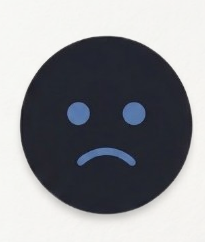
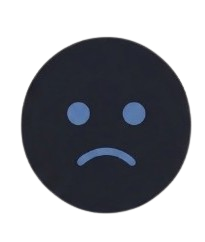
Fix character companion clipping for transparent PNGs

diff --git a/my-app/src/components/characterCompanion/characterCompanion.css b/my-app/src/components/characterCompanion/characterCompanion.css
@@ -46,7 +46,6 @@
 	width: 100%;
 	height: 100%;
 	object-fit: contain;
-	border-radius: 50%;
 	animation: characterIdle 3s ease-in-out infinite;
 	filter: drop-shadow(0 4px 12px rgba(0,0,0,0.15));
 	transition: transform 0.3s ease;
@@ -195,7 +194,6 @@
 /* Aura Effects */
 .character-avatar {
     position: relative;
-    border-radius: 50%;
     transition: all 0.5s ease;
 }
 